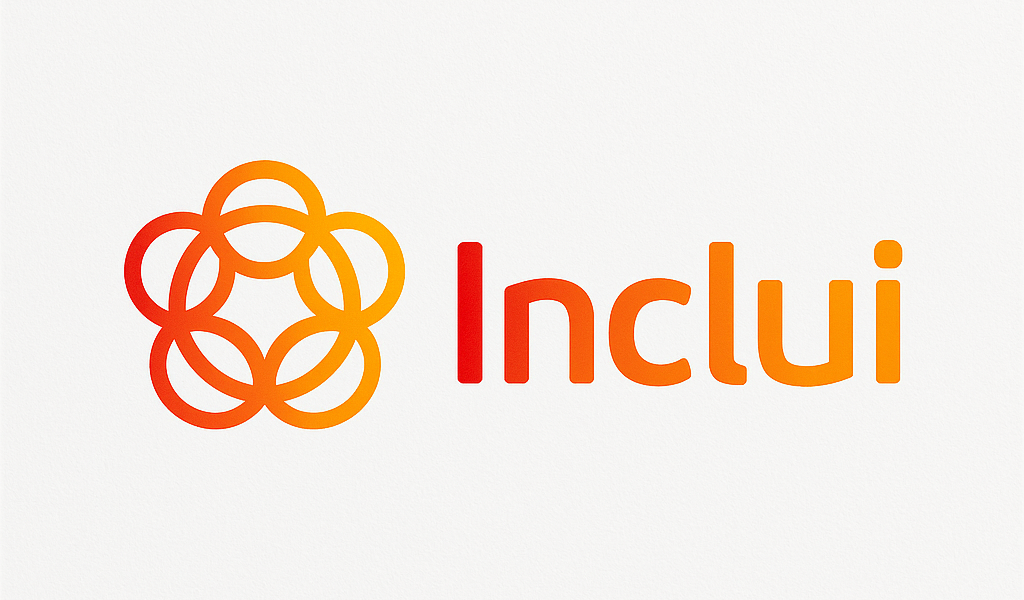
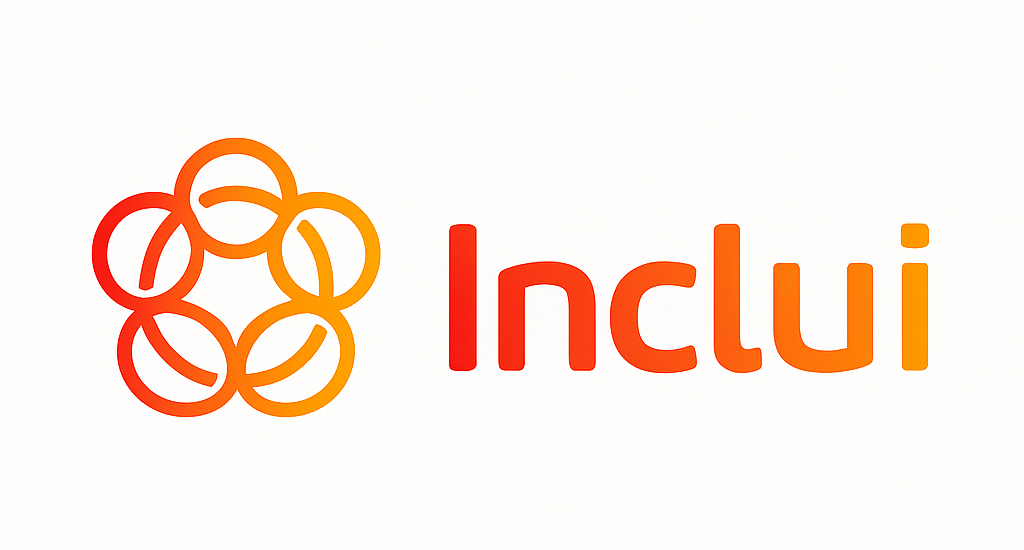
changed the image path and adjusted the design 11

Changed region(s): [[0.0625, 0.2473, 0.4062, 0.7727], [0.4375, 0.4018, 0.9062, 0.68]]

diff --git a/src/components/ui/radial-orbital-timeline.tsx b/src/components/ui/radial-orbital-timeline.tsx
@@ -263,7 +263,7 @@ export default function RadialOrbitalTimeline({
                 </div>
 
                 {/* Node title */}
-                <div
+                {/* <div
                   className={`
                   absolute ${isMobile ? "top-14" : "top-30"} left-1/2 -translate-x-1/2 whitespace-nowrap
                   text-xs font-semibold tracking-wider
@@ -272,7 +272,7 @@ export default function RadialOrbitalTimeline({
                 `}
                 >
                   { isMobile ? '' : item.title }
-                </div>
+                </div> */}
 
                 {/* Expanded card */}
                 {isExpanded && (

diff --git a/src/components/ui/shape-landing-hero.tsx b/src/components/ui/shape-landing-hero.tsx
@@ -203,7 +203,7 @@ const timelineData = [
     category: "Release",
     link: "https://www.inapem.gov.ao/",
     content2: "Desenvolver as Boas Práticas em projecto estratégico.",
-    icon: "https://posbucket.nyc3.cdn.digitaloceanspaces.com/images/inclui.png",
+    icon: "https://posbucket.nyc3.cdn.digitaloceanspaces.com/images/incluii.png",
     relatedIds: [15, 16],
     status: "in-progress" as const,
     energy: 10,
